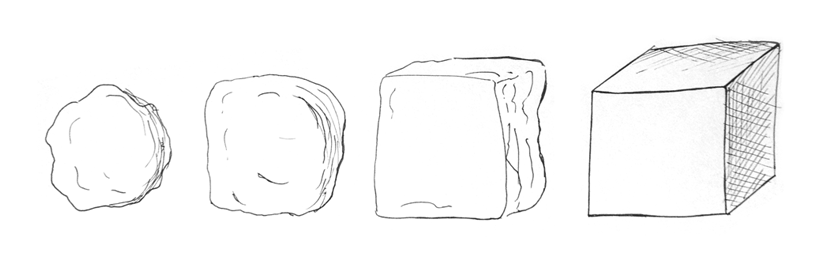
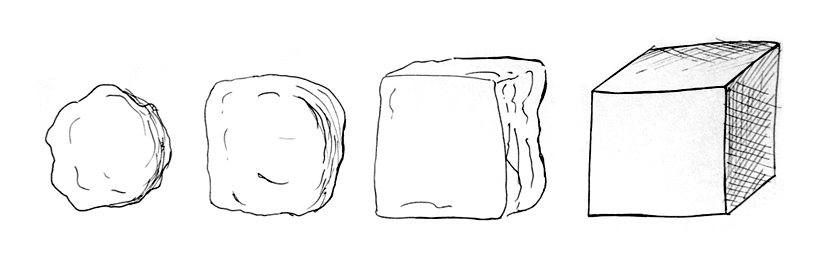
Redrawn sherlock. Still whack. Added css class for two-fifths width.

diff --git a/app/assets/stylesheets/main.css b/app/assets/stylesheets/main.css
@@ -268,6 +268,10 @@ article h1:before {
   width: 66.6666666666%;
 }
 
+.outline img.col-1of2-5 {
+  width: 40%;
+}
+
 .outline img.col-1of3 {
   width: 33.3333333333%;
 }
